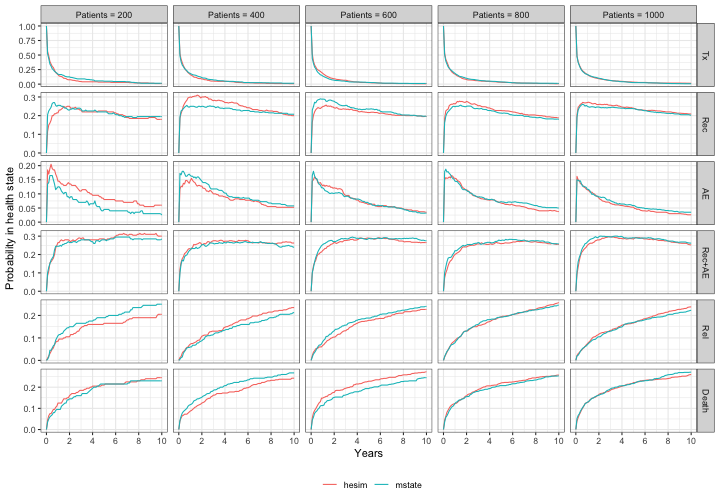
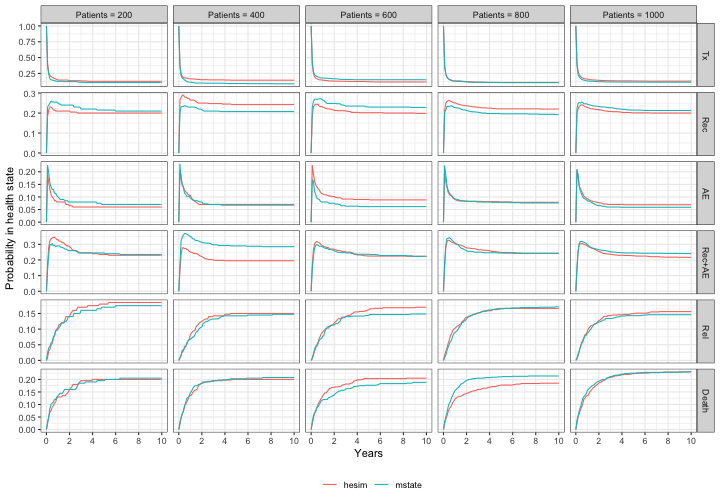
Update mstate post so one chunk doesn't have include = FALSE

diff --git a/_posts/2019-01-01-sim-mstate.md b/_posts/2019-01-01-sim-mstate.md
@@ -122,7 +122,7 @@ msebmt$years <- msebmt$time/365.25
 for (i in 1:n_trans){
   fits_wei[[i]] <- flexsurvreg(Surv(years, status) ~ match + proph + year + agecl ,
                        data = subset(msebmt, trans == i),
-                       dist = "weibull")
+                       dist = "gompertz")
 }
 ```
 
@@ -162,13 +162,13 @@ head(cumhaz_pat_2$Haz)
 ```
 
 ```
-##   time       Haz trans
-## 1 0.00 0.0000000     1
-## 2 0.01 0.1136587     1
-## 3 0.02 0.1535433     1
-## 4 0.03 0.1830811     1
-## 5 0.04 0.2074241     1
-## 6 0.05 0.2285137     1
+##   time        Haz trans
+## 1 0.00 0.00000000     1
+## 2 0.01 0.05802611     1
+## 3 0.02 0.11247756     1
+## 4 0.03 0.16357455     1
+## 5 0.04 0.21152374     1
+## 6 0.05 0.25651905     1
 ```
 
 ```r
@@ -177,12 +177,12 @@ tail(cumhaz_pat_2$Haz)
 
 ```
 ##        time       Haz trans
-## 20431 16.97 0.3752974    12
-## 20432 16.98 0.3754027    12
-## 20433 16.99 0.3755079    12
-## 20434 17.00 0.3756132    12
-## 20435 17.01 0.3757183    12
-## 20436 17.02 0.3758235    12
+## 20431 16.97 0.2366846    12
+## 20432 16.98 0.2366849    12
+## 20433 16.99 0.2366853    12
+## 20434 17.00 0.2366856    12
+## 20435 17.01 0.2366859    12
+## 20436 17.02 0.2366863    12
 ```
 
 The `mstate::mssample()` function works by sampling survival times from each possible transition from the cumulative hazards. More precisely, the cumulative hazards are used to simulate the (discrete) times at which patients transition between health states using the base R function `sample()`, which is, in turn, used to count the number of patients in each health state at the times specified by the argument `tvec`. 
@@ -208,6 +208,7 @@ We set up input data for the simulation by creating a dataset of many identical 
 
 ```r
 library("hesim")
+library("data.table")
 
 create_input_data_2 <- function(n_pats){
   # Patients
@@ -262,6 +263,32 @@ sim_stprobs_hesim_2 <- function(n_pats, fits, point_estimate = TRUE,
 We simulate state occupancy probabilities using both `mstate` and `hesim` and vary the number of simulated patients to examine the impact on precision.
 
 
+```r
+n_pats <- seq(from = 200, to = 1000, by = 200)
+stprobs2 <- vector(mode = "list", length = length(n_pats))
+for (i in 1:length(n_pats)){
+  # mstate
+  mstate_stprobs2 <- sim_stprobs_mstate_2(n_pats[i])
+  mstate_stprobs2 <- melt(mstate_stprobs2, id.vars = "time",
+                          variable.name = "state_id",
+                          value.name = "prob")
+  mstate_stprobs2$state_id <- sub("pstate", "", mstate_stprobs2$state_id)
+  mstate_stprobs2$state_id <- as.numeric(mstate_stprobs2$state_id)
+  mstate_stprobs2$lab <- "mstate"
+
+  # hesim
+  hesim_stprobs2 <- sim_stprobs_hesim_2(n_pats[i], fits_wei)
+  hesim_stprobs2$lab <- "hesim"
+  hesim_stprobs2[, c("sample", "strategy_id") := NULL]
+  setnames(hesim_stprobs2, "t", "time")
+
+  # combine
+  stprobs2[[i]] <- rbind(mstate_stprobs2, hesim_stprobs2)
+  stprobs2[[i]]$n_pats <- n_pats[i]
+  print(i)
+}
+stprobs2 <- rbindlist(stprobs2)
+```
 
 As shown in the plot below, the differences in state occupancy probabilities generally become smaller as the number of simulated patients increases. Further, (although not shown) the simulation results from `mstate` become increasingly close to `hesim` as the time grid becomes finer. 
 
@@ -335,7 +362,18 @@ predict_cumhaz_dist_2(n_samples = 3)
 ```
 
 ```
-## Error in setnames(cumhaz_pat2_dist, c("t", "cumhazard"), c("time", "Haz")): could not find function "setnames"
+##        trans sample strategy_id patient_id  time        Haz
+##     1:     1      1           1          1  0.00 0.00000000
+##     2:     1      1           1          1  0.01 0.06755236
+##     3:     1      1           1          1  0.02 0.13070470
+##     4:     1      1           1          1  0.03 0.18974361
+##     5:     1      1           1          1  0.04 0.24493701
+##    ---                                                     
+## 61304:    12      3           1          1 16.98 0.23223958
+## 61305:    12      3           1          1 16.99 0.23223995
+## 61306:    12      3           1          1 17.00 0.23224033
+## 61307:    12      3           1          1 17.01 0.23224070
+## 61308:    12      3           1          1 17.02 0.23224107
 ```
 
 A distribution of simulated state occupancy probabilities for patient 2 can then be simulated by looping over the cumulative hazards for each parameter sample.
